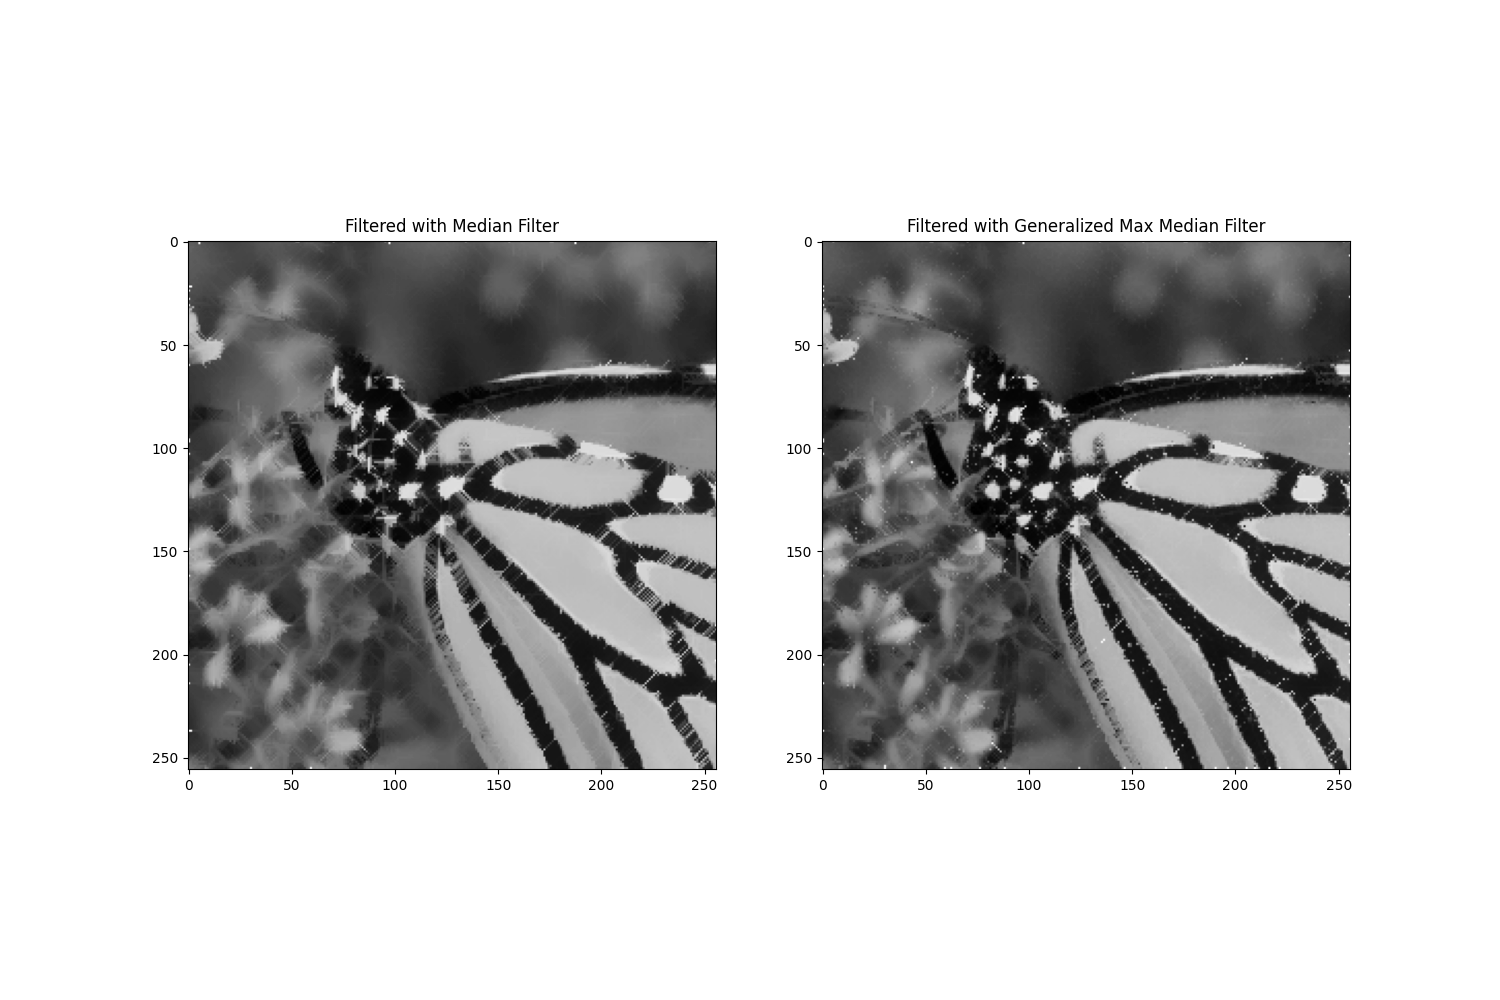
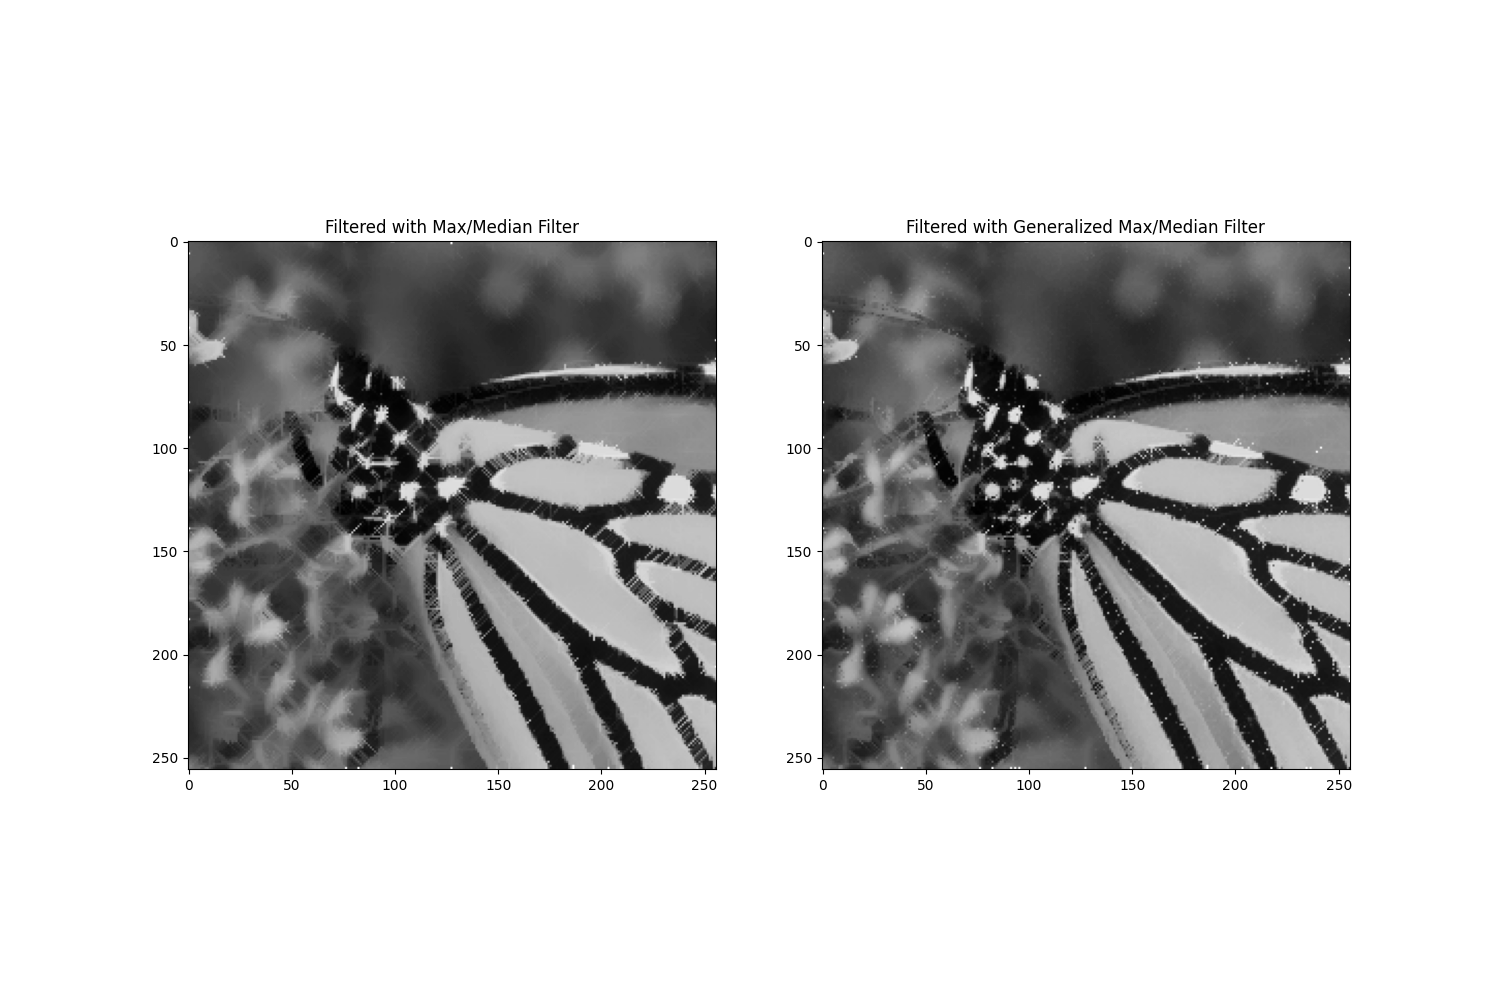
Update documents

diff --git a/eval_set12.py b/eval_set12.py
@@ -7,9 +7,7 @@ from skimage.filters import window
 
 import time
 from filter import generalize_max_median_filter
-import cv2 as cv
 import matplotlib.pyplot as plt
-import argparse
 from sklearn.metrics import root_mean_squared_error
 import os
 from noisify import noisify
@@ -40,7 +38,6 @@ def hologram(image: np.ndarray):
             img_hologram[round(image[i, j])] += 1
 
     img_hologram = np.array(img_hologram)
-    img_hologram = img_hologram / np.sum(img_hologram)
 
     return img_hologram
 
@@ -124,8 +121,6 @@ def evaluate_window_size():
         axs[i].set_title('Filtered with window size: '+str(2*(n[i-1])+1))
     plot.savefig('results/window_size_images.png')
     plt.close(plot)
-
-
     ln2 = plt.plot(window_size, rMSE, label = 'rMSE')
     plt.xticks(window_size)
     plt.xlabel('Window Size')
@@ -144,9 +139,11 @@ def evaluate_r():
     noise_img = noisify(img, 's&p', noise_ratio=0.1)
     filtered = []
     r = []
+    rMSE = []
     for i in range(1,6):
         img_filtered = generalize_max_median_filter(noise_img ,5, i)
         r.append(i)
+        rMSE.append(root_mean_squared_error(img, img_filtered))
         filtered.append(img_filtered)
     plot, axs = plt.subplots(1, 6, figsize=(20, 10))
     axs[0].imshow(img, cmap='gray')
@@ -157,29 +154,19 @@ def evaluate_r():
     plot.savefig('results/r_images.png')
     plot.show()
     plt.close(plot)
+    r = np.array(r)
+    rMSE = np.array(rMSE)
+    plt.plot(r, rMSE)
+    plt.xlabel('r', )
+    plt.ylabel('rMSE')
+    plt.xticks(r)
 
-    #     if i == 2:
-    #         plt.imshow(img_filtered, cmap='gray')
-    #         plt.savefig('results/r_2_11.png')
-    #         plt.close()
-    #     if i == 4:
-    #         plt.imshow(img_filtered, cmap='gray')
-    #         plt.savefig('results/r_4_11.png')
-    #         plt.close()
-    #
-    # r = np.array(r)
-    # rMSE = np.array(rMSE)
-    # plt.plot(r, rMSE)
-    # plt.xlabel('r', )
-    # plt.ylabel('rMSE')
-    # plt.xticks(r)
-
-
-# images = os.listdir('images/Set12')
-# for image in images:
-#     evaluate_without_noise('images/Set12/'+image)
-#     evaluate_gaussian_noise('images/Set12/'+image)
-#     evaluate_snp('images/Set12/'+image)
+def eval_all():
+    images = os.listdir('images/Set12')
+    for image in images:
+        evaluate_without_noise('images/Set12/'+image)
+        evaluate_gaussian_noise('images/Set12/'+image)
+        evaluate_snp('images/Set12/'+image)
 
 def max_median_filter_comparison():
     img = Image.open('images/Set12/05.png')
@@ -190,12 +177,14 @@ def max_median_filter_comparison():
 
     flot, axs = plt.subplots(1, 2, figsize=(15, 10))
     axs[0].imshow(img_filtered, cmap='gray')
-    axs[0].set_title('Filtered with Median Filter')
+    axs[0].set_title('Filtered with Max/Median Filter')
     axs[1].imshow(img_filtered2, cmap='gray')
-    axs[1].set_title('Filtered with Generalized Max Median Filter')
+    axs[1].set_title('Filtered with Generalized Max/Median Filter')
     plt.savefig('results/max_median_comparison.png')
     plt.show()
     plt.close()
 
 max_median_filter_comparison()
-# evaluate_window_size()
+evaluate_window_size()
+evaluate_r()
+eval_all()

diff --git a/README.md b/README.md
@@ -12,4 +12,47 @@ This repository is an implementation of generalize max/median filter proposed by
 
 #### Running the filter
 
+The following command runs the filter on the image `Lenna.png` with a custom setting, we assume that the image is stored in the `images` folder.
 
+```
+python3 eval.py --image images/Lenna.png
+                --window_size 5
+                --noise_type s&p
+                --noise_ratio 0.1
+```
+
+For more information about the arguments, please run `python3 eval.py --help`.
+
+To run the evaluation on the Set12 dataset, please run `python3 eval_set12.py`. The results will be stored in the `results` folder.
+
+#### Theoretical basis
+The generalized max/median filter is described by following algorithm:
+
+- $x(. , . )$ is a two-dimensional sequence of an image with $x(i,j)$ is the $(i,j)^{th}$
+pixel.
+- $W(i,j)$ is a $(2n + 1) × (2n + 1)$ square window centered at the $(i,j)^{th}$ pixel. We define 
+the following line segments of $W$: $W_k(i,j), (1 ≤ k ≤ 4)$ as:
+    - $W_1(i,j) = \{x(i, j + k), −n ≤ k ≤ n, l ≠ 0\}$
+    - $W_2(i,j) = \{x(i + k, j + k), −n ≤ k ≤ n, k ≠ 0\}$
+    - $W_3(i,j) = \{x(i + k, j), −n ≤ k ≤ n, k ≠ 0\}$
+    - $W_4(i,j) = \{x(i − k, j + k), −n ≤ k ≤ n, k ≠ 0\}$
+- Let $x_{(1)}^k(i,j) ≤ x_{(2)}^k(i,j) ≤ ⋯ ≤ x_{(2n + 1)}^k(i,j)$ be the order statistics in $W_k(i,j)$, and the $r^th$ largest value $x_{(r)}^k(i,j)$ in $W_k(i,j)$ is denoted by $x_{(r)}^k(i,j)$.will be selected.
+- The output of generalized max/median filtering is defined as: $y(i,j) = med(S_1(i,j), S_2(i,j),x(i,j))$ where:
+    - $S_1(i,j) = \{x_{(r)}^k(i,j), 1 ≤ k ≤ 4\}$
+    - $S_2(i,j) = \{x_{(2n-r+1)}^k(i,j), 1 ≤ k ≤ 4\}$
+- When $r = n + 1$, the generalized max/median filter is equivalent to the median filter. When $r = 1$, the generalized max/median filter is identical to the max/median filter.
+
+#### Results
+The following figures show the results of the generalized max/median filter on an image in the Set12 dataset in three different noise settings: Without noise, with salt and pepper noise, and with Gaussian noise.
+
+![Result 1](results/01_wo_noise.png)
+![Result 2](results/01_s&p.png)
+![Result 3](results/01_gaussian_noise.png)
+
+Other results can be found in the `results` folder.
+
+We also calculate the rMSE of the results compared to the original images on different window sizes and r values. The results are shown in the following charts and figures.
+![Window size rMSE](results/window_size.png)
+![Window size images](results/window_size_images.png)
+![r value rMSE](results/r.png)
+![r value images](results/r_images.png)
